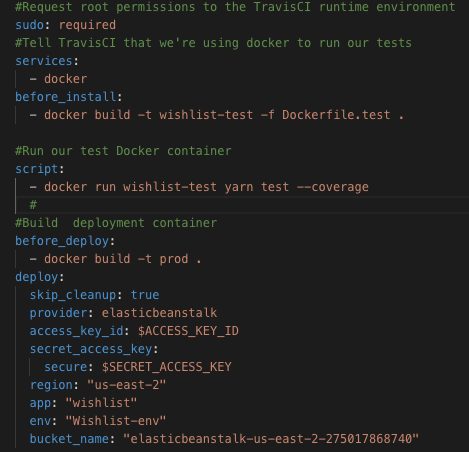
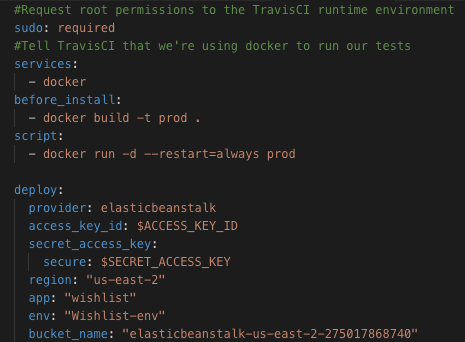
updated readme and config files

Changed region(s): [[0.0301, 0.0, 0.9935, 0.9942], [0.572, 0.2339, 0.843, 0.2632]]

diff --git a/README.md b/README.md
@@ -11,12 +11,12 @@
 - [Docker](#docker)
 - [CI/CD](#CI/CD)
 
-
 ## General info
 
 Add more general information about project. What the purpose of the project is? Motivation?
 
 ## Screenshots
+
 - Homepage
 
 ![Example screenshot](./img/Screenshot_search.png)
@@ -67,13 +67,12 @@ To setup for CI/CD for production with Travis and AWS
 - Create an [AWS](https://aws.amazon.com/) account if you dont have one and follow instruction to setup ELasticbeanstalk application
 - See the section about [Travis-Elasticbeanstalk deployment](https://docs.travis-ci.com/user/deployment/elasticbeanstalk/) for more information.
 - Copy the deployment config from the deployConfig file
-- Add the copied contents to the .travis.yml file
+- Update the .travis.yml file by adding the deployment configuration found in the deployConfig file
 - Edit the details accordingly
-- Your .travis.yml file should be similar to the image below:
+- Your .travis.yml file should now be similar to the image below:
 
 ![Example screenshot](./img/Screenshot-config.png)
 
 - Make sure your project is on github
 - Go to your Travis account and start build
-- Travis automaticaly runs test whenever you make changes
-
+- Travis automaticaly runs test whenever you make changes to the master
